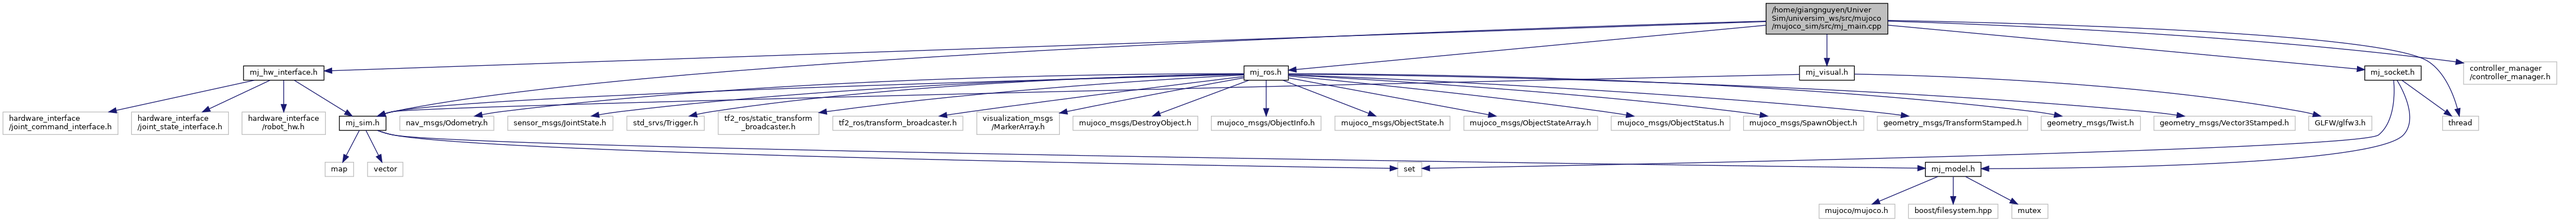
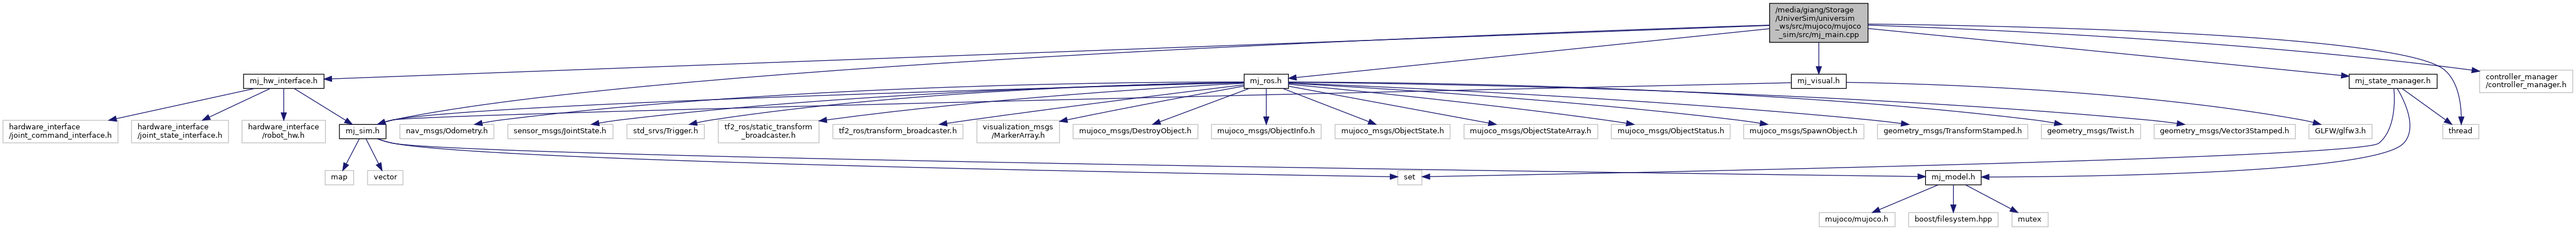
Change mj_socket to mj_state_manager

diff --git a/src/mujoco_sim/mj_state_manager.cpp b/src/mujoco_sim/mj_state_manager.cpp
@@ -18,7 +18,7 @@
 // OUT OF OR IN CONNECTION WITH THE SOFTWARE OR THE USE OR OTHER DEALINGS IN THE
 // SOFTWARE.
 
-#include "mj_socket.h"
+#include "mj_state_manager.h"
 
 #include <chrono>
 #include <csignal>
@@ -29,17 +29,17 @@
 
 std::string host = "tcp://127.0.0.1";
 
-std::map<std::string, std::vector<std::string>> MjSocket::send_objects;
+std::map<std::string, std::vector<std::string>> MjStateManager::send_objects;
 
-std::map<std::string, std::vector<std::string>> MjSocket::receive_objects;
+std::map<std::string, std::vector<std::string>> MjStateManager::receive_objects;
 
 bool should_shut_down = false;
 
-MjSocket::~MjSocket()
+MjStateManager::~MjStateManager()
 {
 }
 
-void MjSocket::init(const int port)
+void MjStateManager::init(const int port)
 {
 	XmlRpc::XmlRpcValue receive_object_params;
 	if (ros::param::get("~receive", receive_object_params))
@@ -107,7 +107,7 @@ void MjSocket::init(const int port)
 	}
 }
 
-void MjSocket::send_meta_data()
+void MjStateManager::send_meta_data()
 {
 	zmq_disconnect(socket_client, socket_addr.c_str());
 	zmq_connect(socket_client, socket_addr.c_str());
@@ -288,7 +288,7 @@ void MjSocket::send_meta_data()
 		free(buffer); });
 }
 
-void MjSocket::communicate()
+void MjStateManager::communicate()
 {
 	if (is_enabled)
 	{
@@ -322,7 +322,7 @@ void MjSocket::communicate()
 	}
 }
 
-void MjSocket::deinit()
+void MjStateManager::deinit()
 {
 	ROS_INFO("Closing the socket client on %s", socket_addr.c_str());
 	if (is_enabled)

diff --git a/src/mj_main.cpp b/src/mj_main.cpp
@@ -24,13 +24,13 @@
 #endif
 #include "mj_hw_interface.h"
 #include "mj_ros.h"
-#include "mj_socket.h"
+#include "mj_state_manager.h"
 
 #include <controller_manager/controller_manager.h>
 #include <thread>
 
 static MjSim &mj_sim = MjSim::get_instance();
-static MjSocket &mj_socket = MjSocket::get_instance();
+static MjStateManager &mj_state_manager = MjStateManager::get_instance();
 #ifdef VISUAL
 static MjVisual &mj_visual = MjVisual::get_instance();
 #endif
@@ -77,7 +77,7 @@ void simulate()
 
     while (ros::ok())
     {
-        mj_socket.communicate();
+        mj_state_manager.communicate();
         {
             ros::Time sim_time = (ros::Time)(MjRos::ros_start.toSec() + d->time);
             ros::Duration sim_period = sim_time - last_sim_time;
@@ -165,7 +165,7 @@ void simulate()
             }
         }
     }
-    mj_socket.deinit();
+    mj_state_manager.deinit();
 }
 
 int main(int argc, char **argv)
@@ -197,8 +197,8 @@ int main(int argc, char **argv)
     ROS_INFO("Initialized OpenGL successfully.");
 #endif
 
-    MjSocket &mj_socket = MjSocket::get_instance();
-    mj_socket.init(port);
+    MjStateManager &mj_state_manager = MjStateManager::get_instance();
+    mj_state_manager.init(port);
 
     mjcb_control = controller;
 

diff --git a/include/mujoco_sim/mj_state_manager.h b/include/mujoco_sim/mj_state_manager.h
@@ -25,17 +25,17 @@
 #include <set>
 #include <thread>
 
-class MjSocket
+class MjStateManager
 {
 public:
-    MjSocket(const MjSocket &) = delete;
+    MjStateManager(const MjStateManager &) = delete;
 
-    void operator=(MjSocket const &) = delete;
+    void operator=(MjStateManager const &) = delete;
 
-    static MjSocket &get_instance()
+    static MjStateManager &get_instance()
     {
-        static MjSocket mj_socket;
-        return mj_socket;
+        static MjStateManager mj_state_manager;
+        return mj_state_manager;
     }
 
 public:
@@ -89,7 +89,7 @@ private:
     void send_meta_data();
 
 private:
-    MjSocket() = default;
+    MjStateManager() = default;
 
-    ~MjSocket();
+    ~MjStateManager();
 };

diff --git a/src/mujoco_sim/mj_ros.cpp b/src/mujoco_sim/mj_ros.cpp
@@ -20,7 +20,6 @@
 
 #include "mj_ros.h"
 
-#include "mj_socket.h"
 #include "mj_util.h"
 
 #include <condition_variable>
